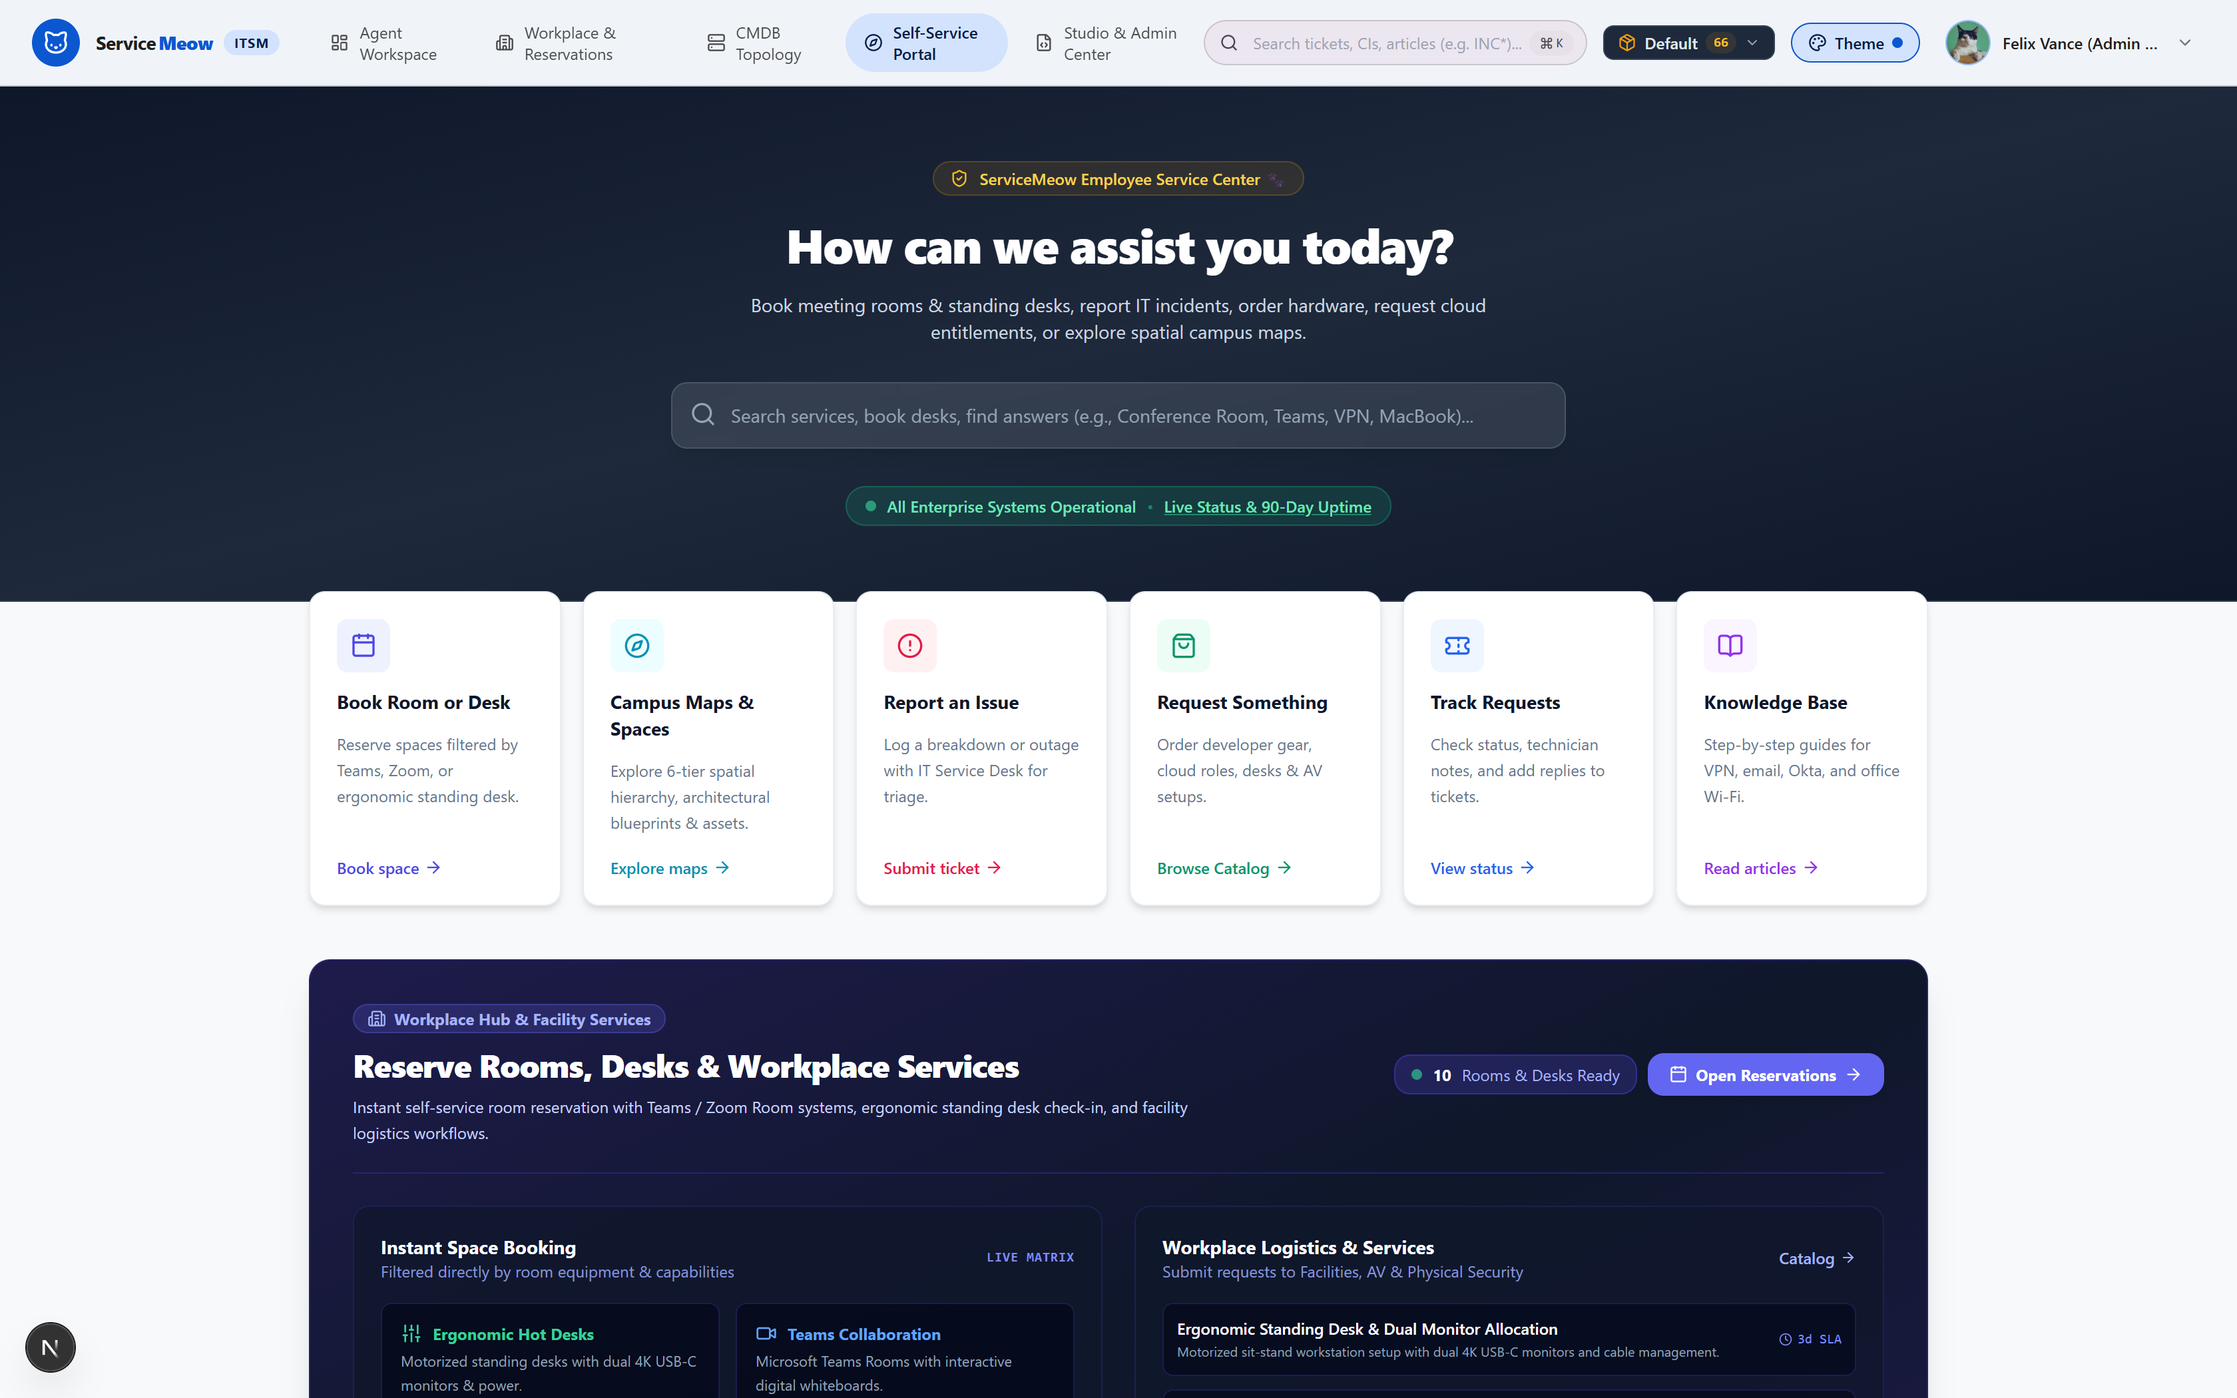
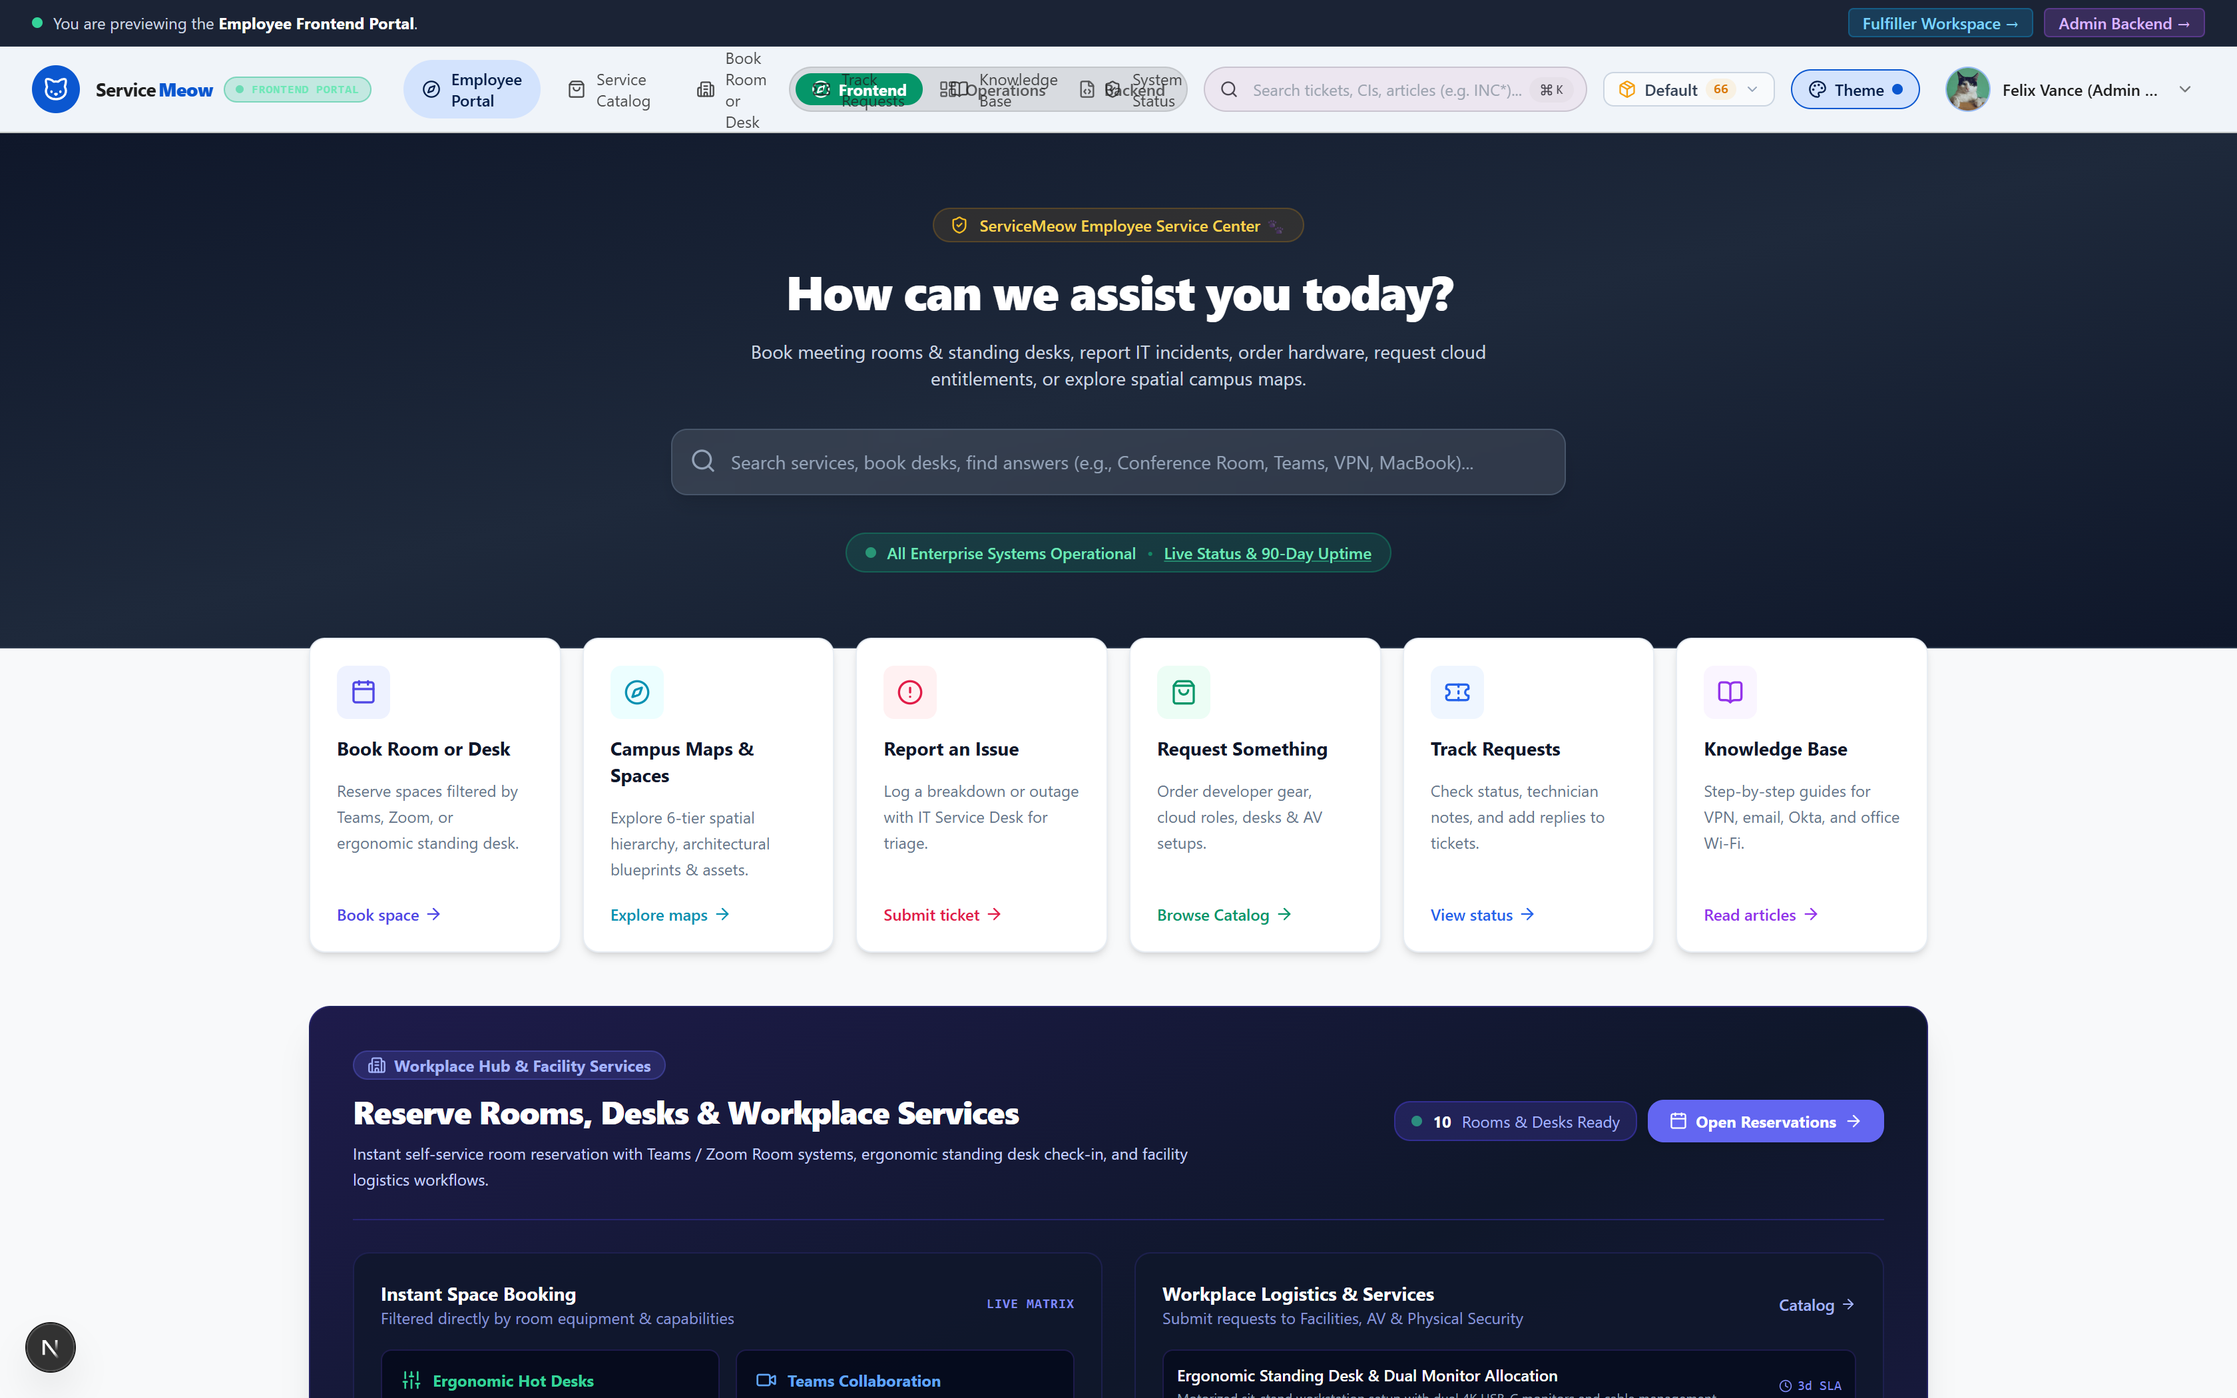
feat(agile-editor): agile 2.0 sprint kanban board, universal excel table editor, and root not-found route

diff --git a/src/components/agile/AgileProjectBoard.tsx b/src/components/agile/AgileProjectBoard.tsx
@@ -68,6 +68,12 @@ const COLUMNS = [
 
 const FIBONACCI_POINTS = [1, 2, 3, 5, 8, 13, 21];
 
+function getAssigneeName(val: any): string {
+  if (!val) return "";
+  if (typeof val === "object") return val.name || val.display_value || val.email || "";
+  return String(val);
+}
+
 export function AgileProjectBoard() {
   const { currentUser } = useUser();
   const [stories, setStories] = useState<AgileStory[]>([]);
@@ -261,20 +267,31 @@ export function AgileProjectBoard() {
     }
   };
 
+  const activeSprintObj = useMemo(() => {
+    return sprints.find((s) => s.number === selectedSprint || s.id === selectedSprint);
+  }, [sprints, selectedSprint]);
+
   // Filtered Stories
   const filteredStories = useMemo(() => {
     return stories.filter((story) => {
       // Sprint filter
       if (selectedSprint === "backlog" && story.sprint_id) return false;
       if (selectedSprint !== "all" && selectedSprint !== "backlog") {
-        if (story.sprint_id !== selectedSprint) return false;
+        const matchesSprint =
+          story.sprint_id === selectedSprint ||
+          (activeSprintObj &&
+            (story.sprint_id === activeSprintObj.id ||
+              story.sprint_id === activeSprintObj.number ||
+              story.sprint_name === activeSprintObj.name));
+        if (!matchesSprint) return false;
       }
 
       // Priority filter
-      if (priorityFilter !== "all" && story.priority !== priorityFilter) return false;
+      if (priorityFilter !== "all" && String(story.priority) !== String(priorityFilter)) return false;
 
       // Assignee filter
-      if (assigneeFilter !== "all" && story.assigned_to !== assigneeFilter) return false;
+      const storyAssignee = getAssigneeName(story.assigned_to);
+      if (assigneeFilter !== "all" && storyAssignee !== assigneeFilter) return false;
 
       // Text query
       if (searchQuery.trim()) {
@@ -282,7 +299,7 @@ export function AgileProjectBoard() {
         const num = (story.number || "").toLowerCase();
         const title = (story.short_description || "").toLowerCase();
         const desc = (story.description || "").toLowerCase();
-        const assignee = (story.assigned_to || "").toLowerCase();
+        const assignee = storyAssignee.toLowerCase();
         const epic = (story.epic_name || "").toLowerCase();
         return (
           num.includes(q) ||
@@ -295,7 +312,7 @@ export function AgileProjectBoard() {
 
       return true;
     });
-  }, [stories, selectedSprint, priorityFilter, assigneeFilter, searchQuery]);
+  }, [stories, selectedSprint, activeSprintObj, priorityFilter, assigneeFilter, searchQuery]);
 
   // Velocity & Metrics Calculation
   const metrics = useMemo(() => {
@@ -304,16 +321,16 @@ export function AgileProjectBoard() {
       (sum, s) => sum + (Number(s.story_points) || 0),
       0
     );
-    const completedCount = filteredStories.filter((s) => s.state === "7").length;
+    const completedCount = filteredStories.filter((s) => String(s.state) === "7").length;
     const completedPoints = filteredStories
-      .filter((s) => s.state === "7")
+      .filter((s) => String(s.state) === "7")
       .reduce((sum, s) => sum + (Number(s.story_points) || 0), 0);
 
     const progressPct =
       totalPoints > 0 ? Math.round((completedPoints / totalPoints) * 100) : 0;
 
     const inProgressPoints = filteredStories
-      .filter((s) => s.state === "3" || s.state === "4")
+      .filter((s) => String(s.state) === "3" || String(s.state) === "4")
       .reduce((sum, s) => sum + (Number(s.story_points) || 0), 0);
 
     return {
@@ -330,14 +347,11 @@ export function AgileProjectBoard() {
   const assignees = useMemo(() => {
     const set = new Set<string>();
     stories.forEach((s) => {
-      if (s.assigned_to) set.add(s.assigned_to);
+      const name = getAssigneeName(s.assigned_to);
+      if (name) set.add(name);
     });
     return Array.from(set);
   }, [stories]);
-
-  const activeSprintObj = useMemo(() => {
-    return sprints.find((s) => s.number === selectedSprint);
-  }, [sprints, selectedSprint]);
 
   return (
     <div className="space-y-6">
@@ -553,7 +567,9 @@ export function AgileProjectBoard() {
       ) : (
         <div className="grid grid-cols-1 md:grid-cols-2 lg:grid-cols-5 gap-4 items-start">
           {COLUMNS.map((col) => {
-            const colStories = filteredStories.filter((s) => s.state === col.id);
+            const colStories = filteredStories.filter(
+              (s) => String(s.state) === String(col.id)
+            );
             const colPoints = colStories.reduce(
               (sum, s) => sum + (Number(s.story_points) || 0),
               0
@@ -651,7 +667,7 @@ export function AgileProjectBoard() {
                           <div className="mt-3 pt-2.5 border-t border-slate-800/80 flex items-center justify-between text-xs">
                             <div className="flex items-center gap-1.5 text-slate-400 text-[11px] truncate max-w-[120px]">
                               <User className="w-3 h-3 text-slate-500 shrink-0" />
-                              <span className="truncate">{story.assigned_to || "Unassigned"}</span>
+                              <span className="truncate">{getAssigneeName(story.assigned_to) || "Unassigned"}</span>
                             </div>
 
                             {/* Card Navigation Controls */}
@@ -912,7 +928,7 @@ export function AgileProjectBoard() {
                 <div className="p-2.5 bg-slate-900 rounded-xl border border-slate-800">
                   <span className="text-[10px] uppercase font-mono text-slate-400 block">Assignee</span>
                   <span className="font-semibold text-slate-200 mt-0.5 block truncate">
-                    {selectedStory.assigned_to || "Unassigned"}
+                    {getAssigneeName(selectedStory.assigned_to) || "Unassigned"}
                   </span>
                 </div>
 

diff --git a/src/app/not-found.tsx b/src/app/not-found.tsx
@@ -1,0 +1,55 @@
+import Link from "next/link";
+import { ArrowLeft, Home, LayoutDashboard, Terminal } from "lucide-react";
+
+export default function NotFound() {
+  return (
+    <div className="min-h-screen bg-slate-950 text-slate-100 flex items-center justify-center p-6">
+      <div className="max-w-md w-full bg-slate-900/90 border border-slate-800 rounded-2xl p-8 shadow-2xl backdrop-blur-xl text-center space-y-6">
+        <div className="w-16 h-16 rounded-2xl bg-violet-500/10 border border-violet-500/20 text-violet-400 flex items-center justify-center mx-auto text-2xl font-black font-mono shadow-inner">
+          404
+        </div>
+
+        <div className="space-y-2">
+          <h1 className="text-2xl font-bold tracking-tight text-white">Record or Route Not Found</h1>
+          <p className="text-sm text-slate-400">
+            The page or system record you requested does not exist or has been relocated within the ServiceMeow platform.
+          </p>
+        </div>
+
+        <div className="grid grid-cols-1 sm:grid-cols-3 gap-2.5 pt-2">
+          <Link
+            href="/portal"
+            className="flex flex-col items-center justify-center p-3 rounded-xl border border-slate-800 bg-slate-800/40 hover:bg-slate-800/80 hover:border-emerald-500/30 text-xs font-semibold text-slate-300 hover:text-white transition-all group"
+          >
+            <Home className="w-4 h-4 mb-1.5 text-emerald-400 group-hover:scale-110 transition-transform" />
+            Portal
+          </Link>
+          <Link
+            href="/workspace"
+            className="flex flex-col items-center justify-center p-3 rounded-xl border border-slate-800 bg-slate-800/40 hover:bg-slate-800/80 hover:border-sky-500/30 text-xs font-semibold text-slate-300 hover:text-white transition-all group"
+          >
+            <LayoutDashboard className="w-4 h-4 mb-1.5 text-sky-400 group-hover:scale-110 transition-transform" />
+            Workspace
+          </Link>
+          <Link
+            href="/studio"
+            className="flex flex-col items-center justify-center p-3 rounded-xl border border-slate-800 bg-slate-800/40 hover:bg-slate-800/80 hover:border-purple-500/30 text-xs font-semibold text-slate-300 hover:text-white transition-all group"
+          >
+            <Terminal className="w-4 h-4 mb-1.5 text-purple-400 group-hover:scale-110 transition-transform" />
+            Studio
+          </Link>
+        </div>
+
+        <div className="pt-2 border-t border-slate-800">
+          <Link
+            href="/"
+            className="inline-flex items-center gap-2 text-xs font-medium text-slate-400 hover:text-slate-200 transition-colors"
+          >
+            <ArrowLeft className="w-3.5 h-3.5" />
+            Return to ServiceMeow Home
+          </Link>
+        </div>
+      </div>
+    </div>
+  );
+}

diff --git a/src/components/layout/Navbar.tsx b/src/components/layout/Navbar.tsx
@@ -76,8 +76,6 @@ export function Navbar() {
     ? [
         { label: "Table Data Editor", href: "/studio?tab=table_editor", icon: Database },
         { label: "Schema Dictionary", href: "/studio?tab=schema", icon: Layers },
-        { label: "Server Automation", href: "/studio?tab=business_rules", icon: FileCode },
-        { label: "Workplace & Spaces", href: "/studio?tab=workplace", icon: Building2 },
         { label: "Operations Workspace ↗", href: "/workspace", icon: LayoutDashboard },
       ]
     : [
@@ -282,7 +280,7 @@ export function Navbar() {
           <div className="flex items-center space-x-3 shrink-0">
             {/* 3-Surface Segmented Context Switcher (Frontend Portal / Operations Workspace / Admin Backend) */}
             {!isEmployee && (
-              <div className="hidden xl:flex items-center bg-black/10 dark:bg-white/5 p-1 rounded-full border border-black/10 dark:border-white/10 text-xs font-semibold">
+              <div className="hidden 2xl:flex items-center bg-black/10 dark:bg-white/5 p-1 rounded-full border border-black/10 dark:border-white/10 text-xs font-semibold shrink-0">
                 <Link
                   href="/portal"
                   className={`px-3 py-1 rounded-full flex items-center gap-1.5 transition-all ${

diff --git a/scripts/capture-real-screenshots.js b/scripts/capture-real-screenshots.js
@@ -97,7 +97,13 @@ async function main() {
     // 5. Workplace Spatial Hierarchy (Real 6-Tier Spatial Tree)
     await capture('/portal/spaces', 'spaces-showcase.png', { waitMs: 2500 });
 
-    // 6. Real Hero Banner (Crisp capture of the Studio / Workspace Command Center)
+    // 6. Agile Project Management Kanban Board
+    await capture('/workspace/agile', 'agile-board-showcase.png', { waitMs: 2500 });
+
+    // 7. Universal Excel-Style Table Data Editor
+    await capture('/studio?tab=table_editor', 'table-editor-showcase.png', { waitMs: 2500 });
+
+    // 8. Real Hero Banner (Crisp capture of the Studio / Workspace Command Center)
     await capture('/workspace', 'hero-banner.png', { waitMs: 2500 });
     fs.copyFileSync(
       path.join(ASSETS_DIR, 'hero-banner.png'),

diff --git a/README.md b/README.md
@@ -13,7 +13,7 @@
   <a href="https://github.com/oleh11/servicemeow/actions/workflows/ci.yml"><img src="https://github.com/oleh11/servicemeow/actions/workflows/ci.yml/badge.svg" alt="ServiceMeow CI" /></a>
   <a href="https://nodejs.org/"><img src="https://img.shields.io/badge/node-%3E%3D20.0.0-emerald.svg" alt="Node.js Version" /></a>
   <a href="https://www.postgresql.org/"><img src="https://img.shields.io/badge/postgresql-16-blue.svg" alt="PostgreSQL" /></a>
-  <a href="https://vitest.dev/"><img src="https://img.shields.io/badge/vitest-86%20passed-8b5cf6.svg" alt="Tests" /></a>
+  <a href="https://vitest.dev/"><img src="https://img.shields.io/badge/vitest-89%20passed-8b5cf6.svg" alt="Tests" /></a>
   <a href="LICENSE"><img src="https://img.shields.io/badge/License-MIT-purple.svg" alt="License: MIT" /></a>
 </p>
 
@@ -208,9 +208,30 @@ ServiceMeow replaces generic ITIL task forms with tailored, context-aware spatia
 - **Hierarchy Placement Card**: Dedicated right-hand rail displaying Tier classification, database table metadata, parent relationship links, and Connected Workplace Architecture notes.
 - **Related Child Assets & Deep Linkage**: Directly inspect and manage child assets (e.g. Campuses located within a State) with inline "+ Add New" actions.
 
+### 9. Agile 2.0 Sprint Management & Interactive Kanban Board (`/workspace/agile`)
 <p align="center">
-  <img src="docs/assets/cmn_state_saved_detail.png" alt="Saved State Detail View" width="100%" style="border-radius: 8px; border: 1px solid #1e293b;" />
+  <img src="docs/assets/agile-board-showcase.png" alt="Agile 2.0 Project Management Board" width="100%" style="border-radius: 8px; border: 1px solid #1e293b;" />
 </p>
+
+ServiceMeow includes a full Agile Project Management module modeled on modern engineering standards and ITIL Agile 2.0:
+- **5-Column Flow State Matrix**: Organize work across *Backlog (1)*, *Sprint Ready (2)*, *In Progress (3)*, *Testing & QA (4)*, and *Complete (7)*.
+- **Sprint Management & Velocity Progress**: Live sprint tabs (e.g. *Sprint 26.1*, *Sprint 26.2*, *Backlog Unassigned*) with real-time story point burn-up calculation and percentage completion meters.
+- **Fibonacci Story Pointing & Epic Attribution**: Assign standard Fibonacci complexity points (1, 2, 3, 5, 8, 13, 21 pts) and link stories directly to business Epics (`rm_epic`) and Projects (`rm_project`).
+- **Interactive Optimistic State Controls**: Rapidly advance or regress story states with 1-click `<` and `>` controls backed by the Table API (`rm_story`).
+- **Story Creation & Detail Inspection**: Modal forms for creating new user stories and deep-dive drawer panels inspecting acceptance criteria, task number sequence (`STRY0001001`), assignees, and state history.
+
+---
+
+### 10. Universal Excel-Style Table Data Editor (`/studio?tab=table_editor`)
+<p align="center">
+  <img src="docs/assets/table-editor-showcase.png" alt="Universal Excel-Style Table Data Editor" width="100%" style="border-radius: 8px; border: 1px solid #1e293b;" />
+</p>
+
+A high-productivity, spreadsheet-grade administrative data grid providing platform admins complete control over all system and operational tables (`incident`, `change_request`, `sys_user`, `cmdb_ci`, `rm_story`, `cmn_location`, `sc_task`, etc.):
+- **Inline Cell Editing & Auto-Save**: Double-click or click any cell to edit fields directly in place with real-time green pulse feedback and immediate PATCH persistence.
+- **Admin View Customizer**: Toggle column visibility, reorder columns, and personalize grid density with preferences saved permanently to `localStorage` per table (`servicemeow_view_${table}`).
+- **Batch Operations & Record Creation**: Add new rows via quick inline insert or structured modal form; multi-select rows for bulk deletion with atomic confirmation safeguards.
+- **Instant Sorting, Filtering & CSV Export**: Column header sort toggles, multi-field regex text search, pagination size selection (15, 25, 50, 100), and 1-click client-side CSV spreadsheet export.
 
 ---
 
@@ -279,7 +300,7 @@ npm run worker
 
 ## 🧪 Testing & Verification
 
-ServiceMeow includes a full Vitest test suite with **86 passing tests across 10 test suites** covering cryptographic signing, password hashing, rate limiting, system table ACL default-deny, QuickJS WASM sandbox security boundaries, role-based persona navigation segregation, spatial entity operations, and the 6-tier Workplace Hub spatial hierarchy.
+ServiceMeow includes a full Vitest test suite with **89 passing tests across 10 test suites** covering cryptographic signing, password hashing, rate limiting, system table ACL default-deny, QuickJS WASM sandbox security boundaries, role-based persona navigation segregation, spatial entity operations, and the 6-tier Workplace Hub spatial hierarchy.
 
 ```bash
 # Run Vitest test suite once
